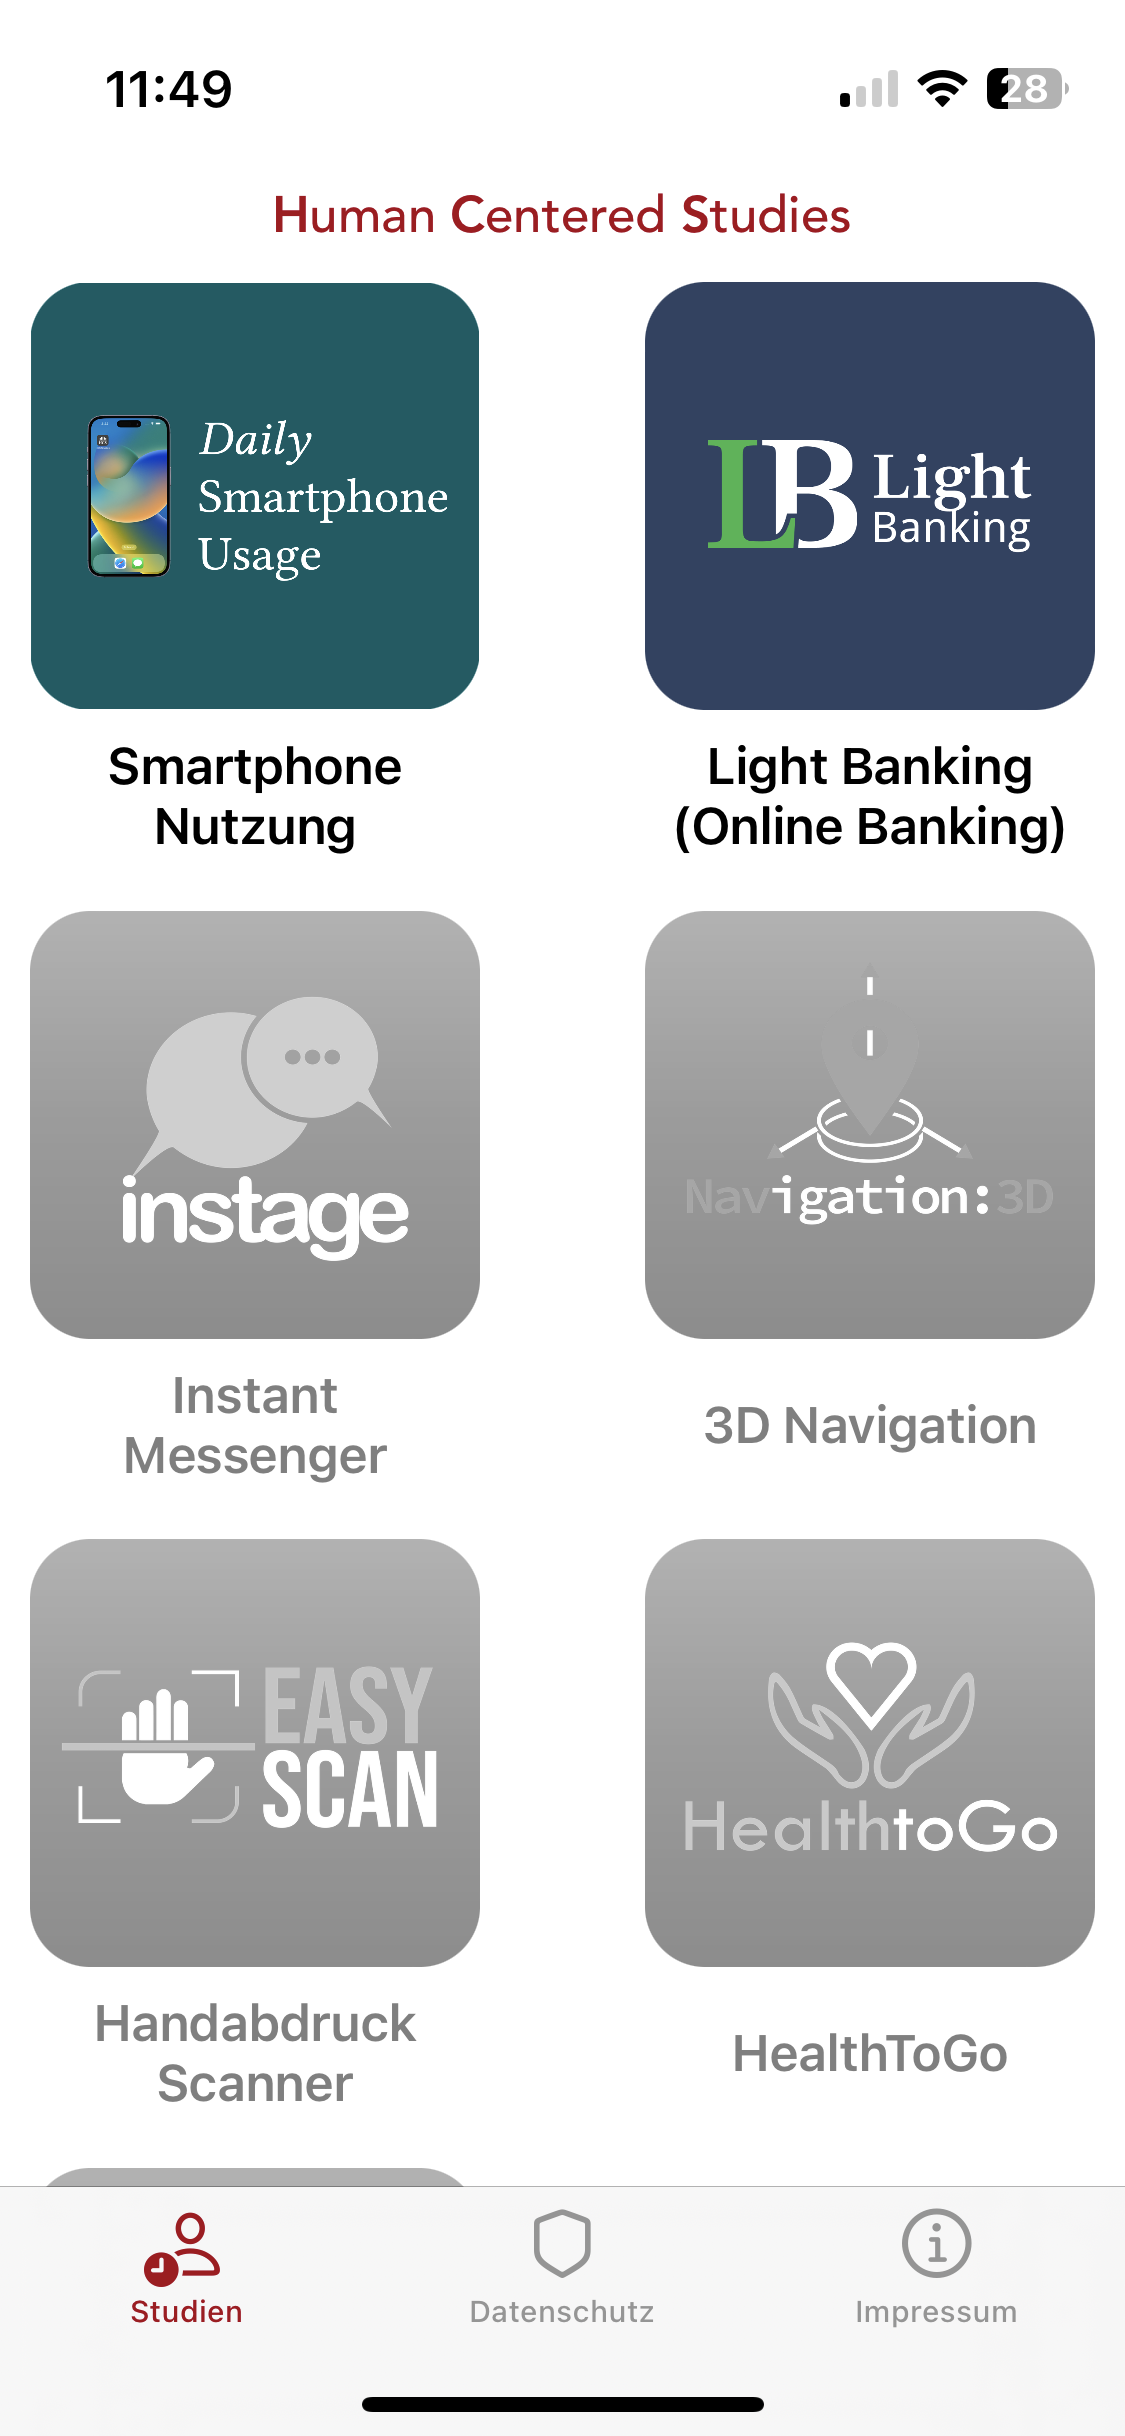
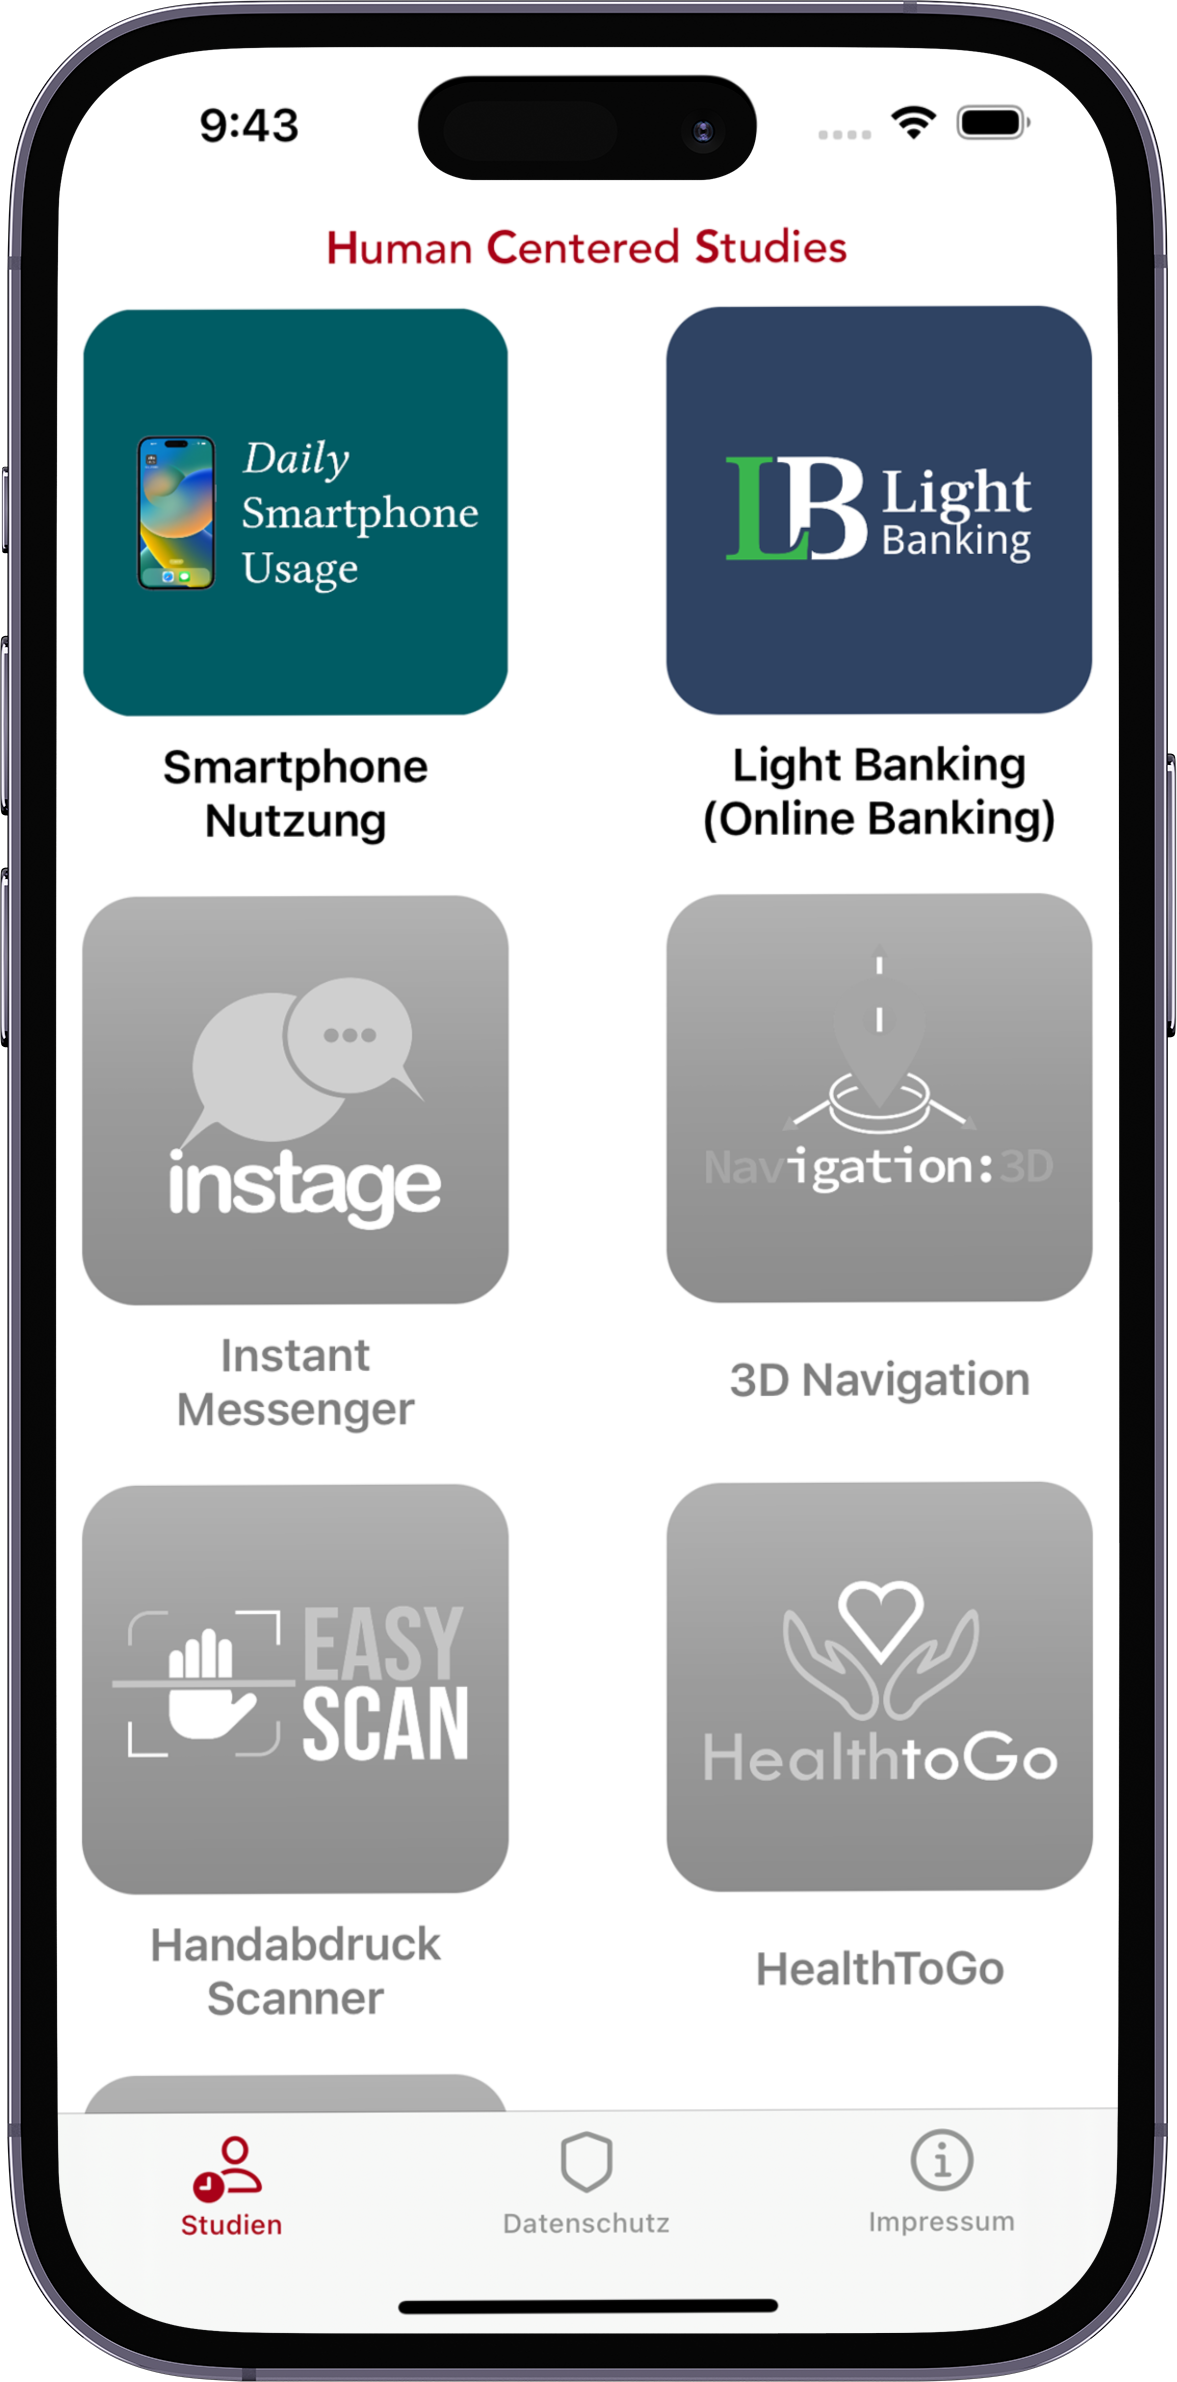
Added new picture and Copyright

diff --git a/_layouts/default.html b/_layouts/default.html
@@ -1,0 +1,42 @@
+<!DOCTYPE html>
+<html lang="{{ site.lang | default: "en-US" }}">
+  <head>
+    <meta charset="UTF-8">
+
+{% seo %}
+    <link rel="preconnect" href="https://fonts.gstatic.com">
+    <link rel="preload" href="https://fonts.googleapis.com/css?family=Open+Sans:400,700&display=swap" as="style" type="text/css" crossorigin>
+    <meta name="viewport" content="width=device-width, initial-scale=1">
+    <meta name="theme-color" content="#157878">
+    <meta name="apple-mobile-web-app-status-bar-style" content="black-translucent">
+    <link rel="stylesheet" href="{{ '/assets/css/style.css?v=' | append: site.github.build_revision | relative_url }}">
+    {% include head-custom.html %}
+  </head>
+  <body>
+    <a id="skip-to-content" href="#content">Skip to the content.</a>
+
+    <header class="page-header" role="banner">
+      <h1 class="project-name">{{ page.title | default: site.title | default: site.github.repository_name }}</h1>
+      <h2 class="project-tagline">{{ page.description | default: site.description | default: site.github.project_tagline }}</h2>
+      {% if site.github.is_project_page %}
+        <a href="{{ site.github.repository_url }}" class="btn">View on GitHub</a>
+      {% endif %}
+      {% if site.show_downloads %}
+        <a href="{{ site.github.zip_url }}" class="btn">Download .zip</a>
+        <a href="{{ site.github.tar_url }}" class="btn">Download .tar.gz</a>
+      {% endif %}
+    </header>
+
+    <main id="content" class="main-content" role="main">
+      {{ content }}
+
+      <footer class="site-footer" style="text-align: center;">
+        {% if site.github.is_project_page %}
+          <span class="site-footer-owner"><a href="{{ site.github.repository_url }}">{{ site.github.repository_name }}</a> is maintained by <a href="{{ site.github.owner_url }}">{{ site.github.owner_name }}</a>.</span>
+        {% endif %}
+        <span class="site-footer-credits">This page was generated by <a href="https://pages.github.com">GitHub Pages</a>.</span>
+        <span class="site-footer-credits">| &copy Copyright 2023 HCS Studies. All rights reserved.</span>
+      </footer>
+    </main>
+  </body>
+</html>

diff --git a/_site/index.html b/_site/index.html
@@ -25,12 +25,12 @@
     <meta name="viewport" content="width=device-width, initial-scale=1">
     <meta name="theme-color" content="#157878">
     <meta name="apple-mobile-web-app-status-bar-style" content="black-translucent">
-    <link rel="stylesheet" href="/assets/css/style.css?v=1fe458dee60c9ec82ce2b6ac009cd592d1a99745">
+    <link rel="stylesheet" href="/assets/css/style.css?v=d09d2f76a312997d584a42aab0fc75ccfa9b992a">
     <!-- start custom head snippets, customize with your own _includes/head-custom.html file -->
 
 <!-- Setup Google Analytics -->
-
-
+<!--
+ <- sets up Google Analytics but I don't want that--> 
 
 <!-- You can set your favicon here -->
 <!-- link rel="shortcut icon" type="image/x-icon" href="/favicon.ico" -->
@@ -56,18 +56,19 @@
 <p>To contact the developers send an email to <a href="mailto:mobsec-studies@rub.de?subject=[HCS Studies]%20Inquiry%20HCS%20Studies">mobsec-studies@rub.de</a></p>
 
 <div style="width: 100%; overflow: hidden;">
-	<div style="text-align: center; float:left;">
-		<img src="/img/app_home.jpeg" alt="Screenshot of HCS Studies app's home screen" style="width: 50%;" />
+	<div style="text-align: center; float:left; width: 50%">
+		<img src="./img/app_home.jpeg" alt="Screenshot of HCS Studies app's home screen" style="width: 70%;" />
 	</div>
-	<div style="text-align: center; overflow: hidden;">
-		<img src="/img/app.png" alt="Screenshot of HCS Studies app's home screen" style="width: 70%; border: gray 1px solid; box-shadow: 5px 5px 5px" />
+	<div style="text-align: center; overflow: hidden; width: 50%">
+		<img src="./img/app.png" alt="Screenshot of HCS Studies app's home screen" style="width: 70%;" />
 	</div>
 </div>
 
 
-      <footer class="site-footer">
+      <footer class="site-footer" style="text-align: center;">
         
         <span class="site-footer-credits">This page was generated by <a href="https://pages.github.com">GitHub Pages</a>.</span>
+        <span class="site-footer-credits">| &copy Copyright 2023 HCS Studies. All rights reserved.</span>
       </footer>
     </main>
   </body>

diff --git a/_site/priv_pol/index.html b/_site/priv_pol/index.html
@@ -25,12 +25,12 @@
     <meta name="viewport" content="width=device-width, initial-scale=1">
     <meta name="theme-color" content="#157878">
     <meta name="apple-mobile-web-app-status-bar-style" content="black-translucent">
-    <link rel="stylesheet" href="/assets/css/style.css?v=1fe458dee60c9ec82ce2b6ac009cd592d1a99745">
+    <link rel="stylesheet" href="/assets/css/style.css?v=d09d2f76a312997d584a42aab0fc75ccfa9b992a">
     <!-- start custom head snippets, customize with your own _includes/head-custom.html file -->
 
 <!-- Setup Google Analytics -->
-
-
+<!--
+ <- sets up Google Analytics but I don't want that--> 
 
 <!-- You can set your favicon here -->
 <!-- link rel="shortcut icon" type="image/x-icon" href="/favicon.ico" -->
@@ -240,9 +240,10 @@ Bei Fragen zum Thema Datenschutz zögern Sie bitte nicht, uns oder die verantwor
 <p><em>Quelle:</em> Für ein leichteres Verständnis teilweise erstellt mit dem <a href="https://www.adsimple.de/datenschutz-generator/">Datenschutz Generator</a> von AdSimple.</p>
 
 
-      <footer class="site-footer">
+      <footer class="site-footer" style="text-align: center;">
         
         <span class="site-footer-credits">This page was generated by <a href="https://pages.github.com">GitHub Pages</a>.</span>
+        <span class="site-footer-credits">| &copy Copyright 2023 HCS Studies. All rights reserved.</span>
       </footer>
     </main>
   </body>

diff --git a/_site/impressum/index.html b/_site/impressum/index.html
@@ -25,12 +25,12 @@
     <meta name="viewport" content="width=device-width, initial-scale=1">
     <meta name="theme-color" content="#157878">
     <meta name="apple-mobile-web-app-status-bar-style" content="black-translucent">
-    <link rel="stylesheet" href="/assets/css/style.css?v=1fe458dee60c9ec82ce2b6ac009cd592d1a99745">
+    <link rel="stylesheet" href="/assets/css/style.css?v=d09d2f76a312997d584a42aab0fc75ccfa9b992a">
     <!-- start custom head snippets, customize with your own _includes/head-custom.html file -->
 
 <!-- Setup Google Analytics -->
-
-
+<!--
+ <- sets up Google Analytics but I don't want that--> 
 
 <!-- You can set your favicon here -->
 <!-- link rel="shortcut icon" type="image/x-icon" href="/favicon.ico" -->
@@ -64,9 +64,10 @@ Deutschland</p>
 <em>Email:</em> <a href="mailto:mobsec-studies@rub.de">mobsec-studies@rub.de</a></p>
 
 
-      <footer class="site-footer">
+      <footer class="site-footer" style="text-align: center;">
         
         <span class="site-footer-credits">This page was generated by <a href="https://pages.github.com">GitHub Pages</a>.</span>
+        <span class="site-footer-credits">| &copy Copyright 2023 HCS Studies. All rights reserved.</span>
       </footer>
     </main>
   </body>

diff --git a/_site/404.html b/_site/404.html
@@ -25,12 +25,12 @@
     <meta name="viewport" content="width=device-width, initial-scale=1">
     <meta name="theme-color" content="#157878">
     <meta name="apple-mobile-web-app-status-bar-style" content="black-translucent">
-    <link rel="stylesheet" href="/assets/css/style.css?v=1fe458dee60c9ec82ce2b6ac009cd592d1a99745">
+    <link rel="stylesheet" href="/assets/css/style.css?v=d09d2f76a312997d584a42aab0fc75ccfa9b992a">
     <!-- start custom head snippets, customize with your own _includes/head-custom.html file -->
 
 <!-- Setup Google Analytics -->
-
-
+<!--
+ <- sets up Google Analytics but I don't want that--> 
 
 <!-- You can set your favicon here -->
 <!-- link rel="shortcut icon" type="image/x-icon" href="/favicon.ico" -->
@@ -71,9 +71,10 @@
 </div>
 
 
-      <footer class="site-footer">
+      <footer class="site-footer" style="text-align: center;">
         
         <span class="site-footer-credits">This page was generated by <a href="https://pages.github.com">GitHub Pages</a>.</span>
+        <span class="site-footer-credits">| &copy Copyright 2023 HCS Studies. All rights reserved.</span>
       </footer>
     </main>
   </body>

diff --git a/_includes/head-custom.html b/_includes/head-custom.html
@@ -1,0 +1,9 @@
+<!-- start custom head snippets, customize with your own _includes/head-custom.html file -->
+
+<!-- Setup Google Analytics -->
+<!--{% include head-custom-google-analytics.html %} <- sets up Google Analytics but I don't want that--> 
+
+<!-- You can set your favicon here -->
+<!-- link rel="shortcut icon" type="image/x-icon" href="{{ '/favicon.ico' | relative_url }}" -->
+
+<!-- end custom head snippets -->
